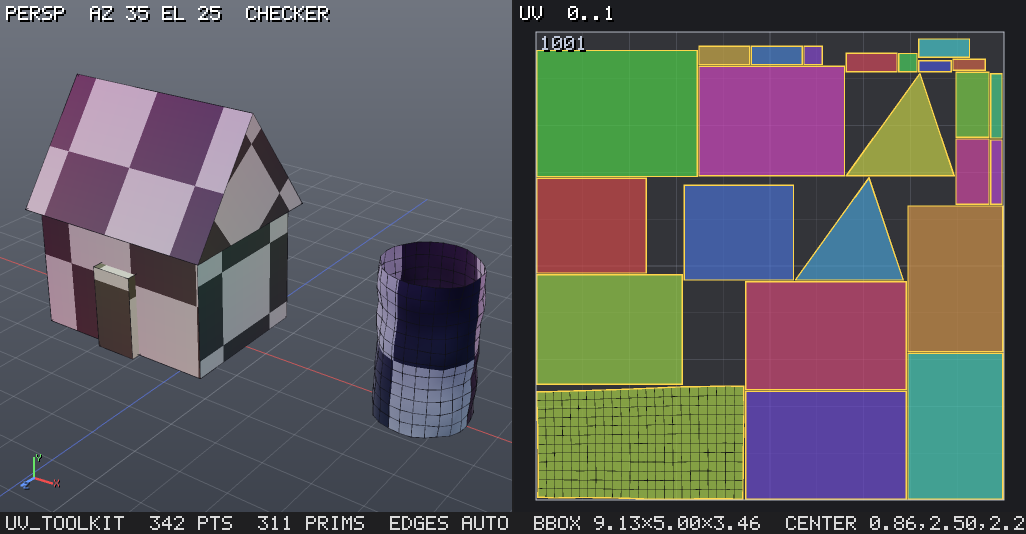
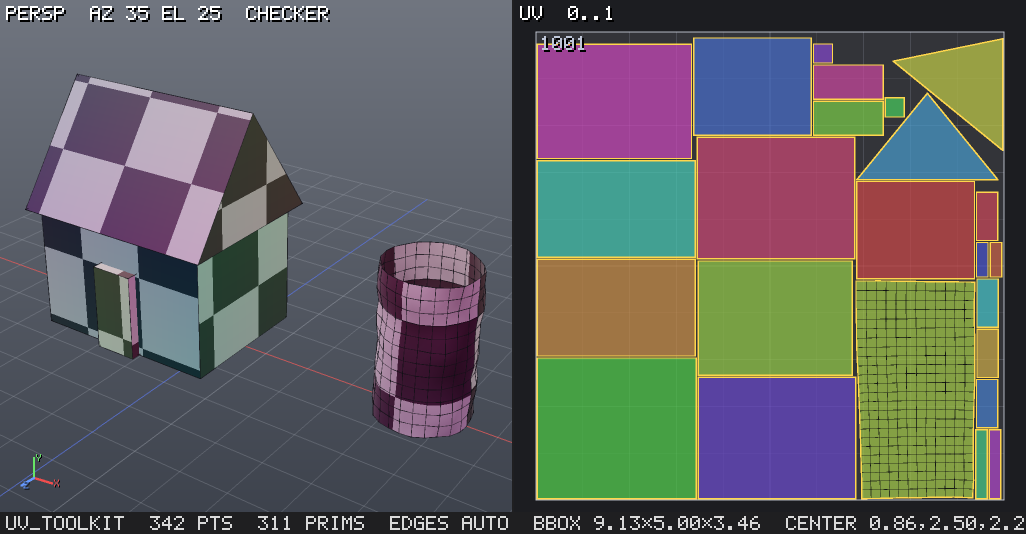
Goldens and renders follow the new uv layouts
The uv, chart and baked layer fingerprints of the uv fixtures, the bakes
built on them and the textures and uv_toolkit examples change with the
packing; topology and counts are unchanged. Two bake tests now check what
they mean rather than one texel: bake_vertex_color reads a covered texel
and one the padding filled (the corner texel is empty when the charts do
not reach the top of the tile), and a grey texel is a zero normal, not a
corner texel the bevel tilts.

diff --git a/test/textures.ts b/test/textures.ts
@@ -453,7 +453,15 @@ const UVBOX = { b: { type: 'box', params: { divisions: [2, 2, 2] } }, uv: { type
   for (let i = 0; i < wm.length; i++) if (wm[i] === 1) { const v = [wc[i * 4], wc[i * 4 + 1], wc[i * 4 + 2]].map((x) => Math.abs(x * 2 - 1)); if (Math.abs(Math.max(...v) - 1) > 1e-3) axisAligned = false; }
   check(axisAligned, 'bake_world_normal of a box: every covered texel is an axis direction');
   const vc = await image({ ...UVBOX, c: { type: 'color', in: ['uv'], params: { color: [0.2, 0.4, 0.6] } }, v: { type: 'bake_vertex_color', in: ['c'], params: { resolution: 16 } } }, 'v');
-  check(Math.abs(vc.layer('C')![0] - 0.2) < 1e-6 && Math.abs(vc.layer('C')![2] - 0.6) < 1e-6, 'bake_vertex_color writes Cd as it is (padding fills the gaps)');
+  {
+    // a covered texel, and an uncovered one beside it (filled by the padding), hold Cd as it is
+    const C = vc.layer('C')!, m = vc.layer('mask')!, W = 16;
+    const inside = m.indexOf(1);
+    let edge = -1;
+    for (let i = 0; i < W * W && edge < 0; i++) if (m[i] === 0 && [i - 1, i + 1, i - W, i + W].some((j) => j >= 0 && j < W * W && Math.abs((j % W) - (i % W)) <= 1 && m[j] === 1)) edge = i;
+    const is = (i: number) => i >= 0 && Math.abs(C[i * 4] - 0.2) < 1e-6 && Math.abs(C[i * 4 + 2] - 0.6) < 1e-6;
+    check(is(inside) && is(edge), 'bake_vertex_color writes Cd as it is (padding fills the gaps)');
+  }
   const th = await image({ ...UVBOX, t: { type: 'bake_thickness', in: ['uv'], params: { resolution: 32, samples: 8, max_distance: 2 } } }, 't');
   const tm = mean(th.layer('C')!, 1, 0, (i) => th.layer('mask')![i] === 1);
   check(tm > 0.45 && tm < 0.6, `bake_thickness of a unit box ≈ 1 m / 2 m (${f3(tm)})`);

diff --git a/test/tangents.ts b/test/tangents.ts
@@ -236,7 +236,8 @@ await loadMikkTSpace();
   const img = [...referenceableImages(await cook(nodes, 'tn')).values()][0];
   const c = img.layer('C')!, mask = img.layer('mask')!;
   let grey = 0, n = 0;
-  for (let px = 0; px < R * R; px++) if (mask[px] >= 1) { n++; if (c[px * 4 + 2] < 0.6) grey++; }
+  // grey: a zero normal encodes as (0.5, 0.5, 0.5); a texel on a corner of a face may tilt far (the bevel) but keeps a direction
+  for (let px = 0; px < R * R; px++) if (mask[px] >= 1) { n++; if (Math.hypot(c[px * 4] - 0.5, c[px * 4 + 1] - 0.5, c[px * 4 + 2] - 0.5) < 0.2) grey++; }
   check(n > 0 && grey === 0, `bake_normal: a merged high mesh whose N is partly zero bakes no grey texels (${grey} of ${n})`);
 }
 
